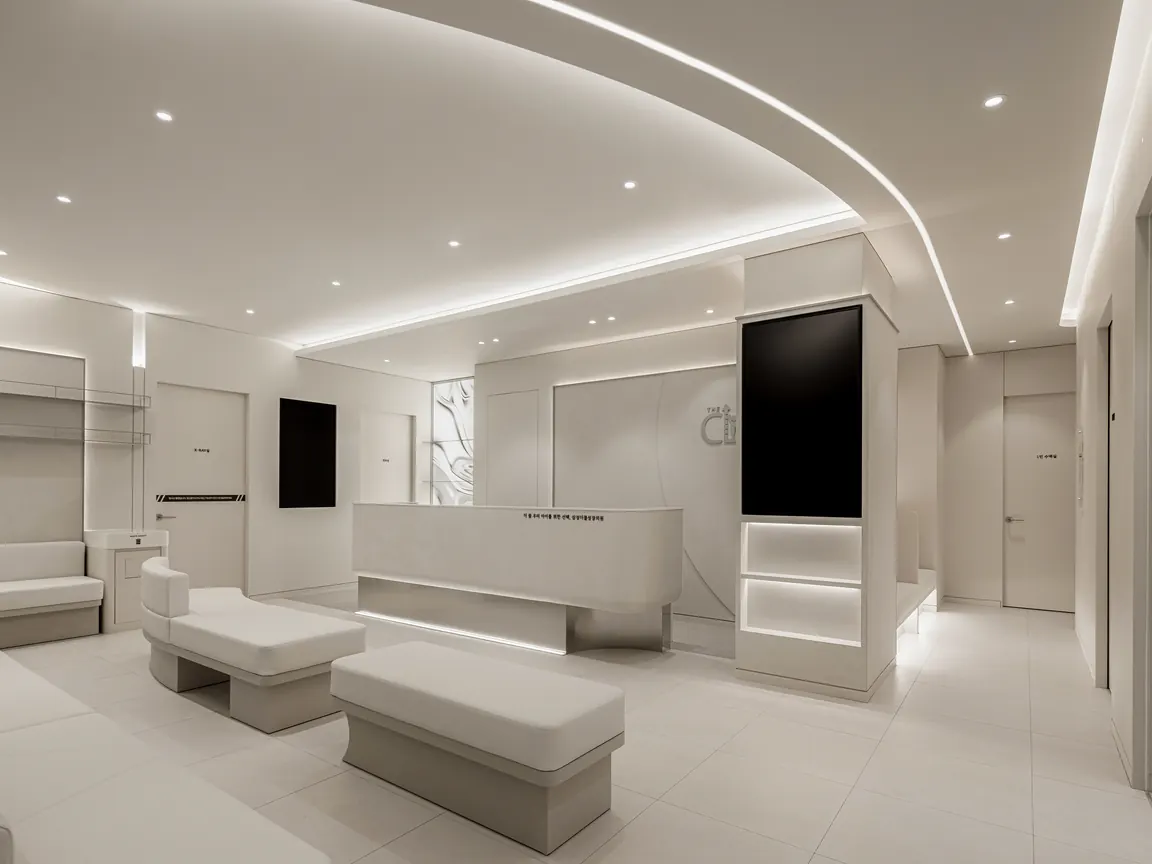
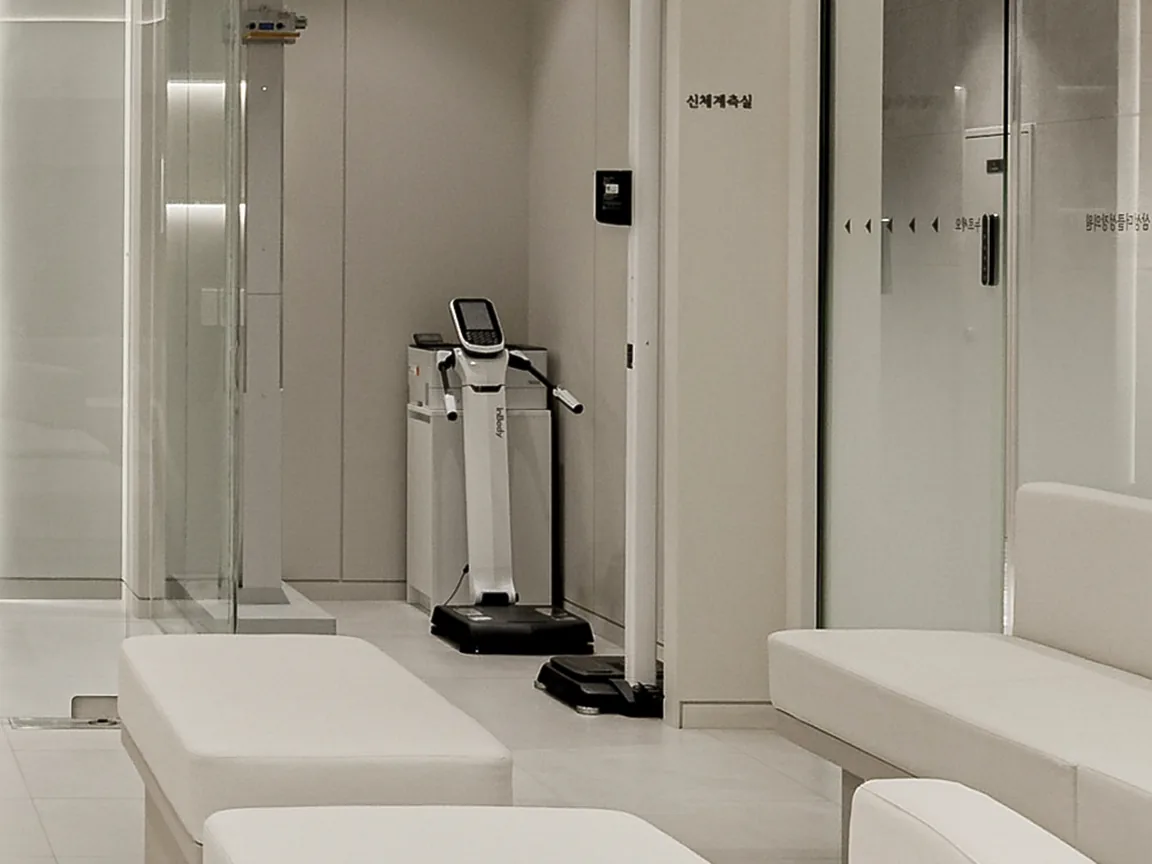
fix: 스크롤 애니메이션 개선 및 이미지 경로 업데이트

diff --git a/gnuboard/theme/the_cl/js/main.js b/gnuboard/theme/the_cl/js/main.js
@@ -6,21 +6,56 @@
 (function () {
   'use strict';
 
-  // --- Smooth Scroll (Lenis) ---
+  /* ============================================================
+     스크롤 감각 설정 — 여기 세 값만 조정하면 됩니다.
+
+       enabled          false 로 두면 Lenis 를 끄고 브라우저 기본(네이티브)
+                        스크롤을 씁니다. 네이티브는 합성 스레드가 직접 처리해
+                        입력 지연이 0 이고 주사율 영향도 받지 않습니다.
+                        부드러운 관성은 없어지지만 절대 무겁지 않습니다.
+
+       lerp             목표 지점까지 따라붙는 속도. 클수록 즉각적(가벼움),
+                        작을수록 여운이 길다(부드럽지만 무겁게 느껴짐).
+                        0.10 무거움 ← 0.14 기본 → 0.20 즉각적
+
+       wheelMultiplier  휠 1틱당 이동 거리.
+                        1.0 조금씩 ← 1.25 기본 → 1.6 성큼성큼
+     ============================================================ */
+  const SCROLL = {
+    enabled: true,
+    lerp: 0.14,
+    wheelMultiplier: 1.25
+  };
+
+  const prefersReducedMotion = window.matchMedia(
+    '(prefers-reduced-motion: reduce)'
+  ).matches;
+
   let lenis;
-  if (typeof Lenis !== 'undefined') {
+  if (SCROLL.enabled && typeof Lenis !== 'undefined' && !prefersReducedMotion) {
     lenis = new Lenis({
-      lerp: 0.15,          // 스크롤 반응 속도 증가 (기본 0.1, 높을수록 빠르고 기민함)
-      wheelMultiplier: 1.2, // 마우스 휠 1틱당 이동 거리 20% 증가
-      duration: 0.8,        // 앵커 이동 등 부가 애니메이션 시간 단축
+      lerp: SCROLL.lerp,
+      wheelMultiplier: SCROLL.wheelMultiplier,
+      smoothWheel: true,
+      duration: 0.9, // 앵커(#) 이동 등 scrollTo 전용
       easing: (t) => Math.min(1, 1.001 - Math.pow(2, -10 * t))
     });
 
-    function raf(time) {
+    let rafId;
+    const raf = (time) => {
       lenis.raf(time);
-      requestAnimationFrame(raf);
-    }
-    requestAnimationFrame(raf);
+      rafId = requestAnimationFrame(raf);
+    };
+    rafId = requestAnimationFrame(raf);
+
+    // 탭이 백그라운드일 때는 루프를 멈춰 불필요한 연산 제거
+    document.addEventListener('visibilitychange', () => {
+      if (document.hidden) {
+        cancelAnimationFrame(rafId);
+      } else {
+        rafId = requestAnimationFrame(raf);
+      }
+    });
   }
 
   // --- 화면 밖 무한 애니메이션 일시정지 (스크롤 렉 완화) ---

diff --git a/gnuboard/theme/the_cl/css/style.css b/gnuboard/theme/the_cl/css/style.css
@@ -205,10 +205,12 @@ ol {
    (요소당 별도 렌더 서피스 생성) 등장 요소가 많은 페이지에서 전역 렉의 원인이 된다. */
 .reveal {
   opacity: 0;
-  transform: translateY(40px);
+  transform: translateY(32px);
+  /* 60Hz에서는 프레임 수가 적어 급한 가감속이 계단처럼 보인다.
+     시간을 늘리고 뒤로 갈수록 완만한 곡선(easeOutQuint)을 써서 정착 구간을 부드럽게. */
   transition:
-    opacity 0.7s var(--ease-elegant),
-    transform 0.7s var(--ease-elegant);
+    opacity 0.9s cubic-bezier(0.22, 1, 0.36, 1),
+    transform 0.9s cubic-bezier(0.22, 1, 0.36, 1);
 }
 
 .reveal.revealed {

diff --git a/gnuboard/theme/the_cl/sub/sub1_1.php b/gnuboard/theme/the_cl/sub/sub1_1.php
@@ -275,7 +275,7 @@ include_once(G5_PATH.'/head.php');
         <!-- Value 2: Long - Image Left -->
         <article class="sub11_sect2_item item2 imgLeft reveal">
           <div class="imgBox">
-            <img src="<?php echo $G5_URL; ?>/img/about_lifestyle.webp?v=4" alt="성장기 아동의 일상 습관과 예상 키 성장을 위한 일대일 라이프스타일 동행" class="item_img" loading="lazy" width="1152" height="864">
+            <img src="<?php echo $G5_URL; ?>/img/about_lifestyle.webp?v=5" alt="인바디 체성분 분석기와 신장계를 갖춘 삼성더클성장의원 신체계측실 - 성장 추적 관리 공간" class="item_img" loading="lazy" width="1152" height="864">
             <i class="bgText marcell">Long</i>
           </div>
           <div class="descBox">
